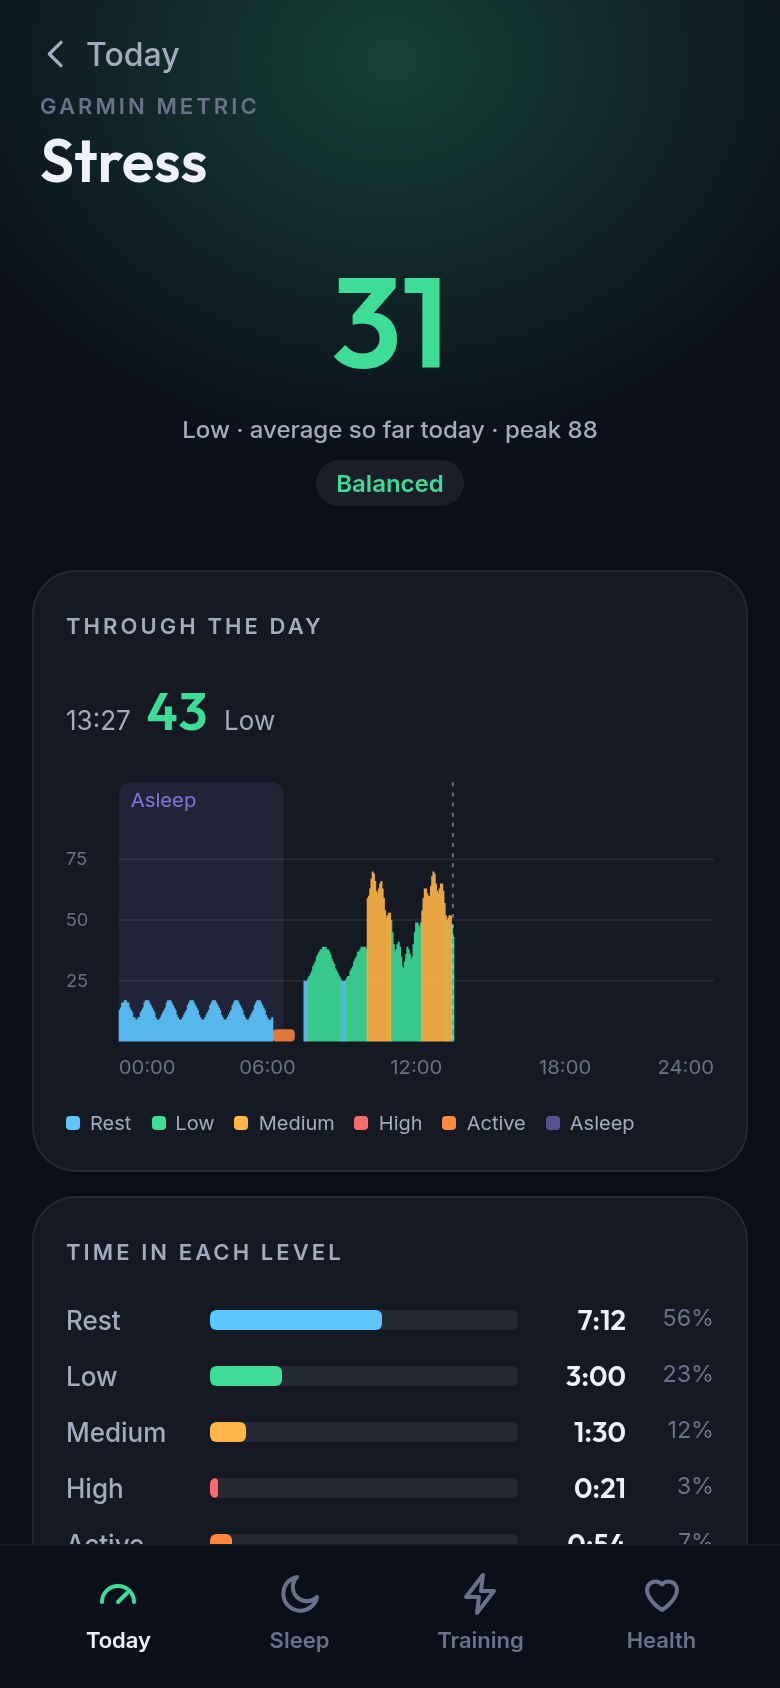
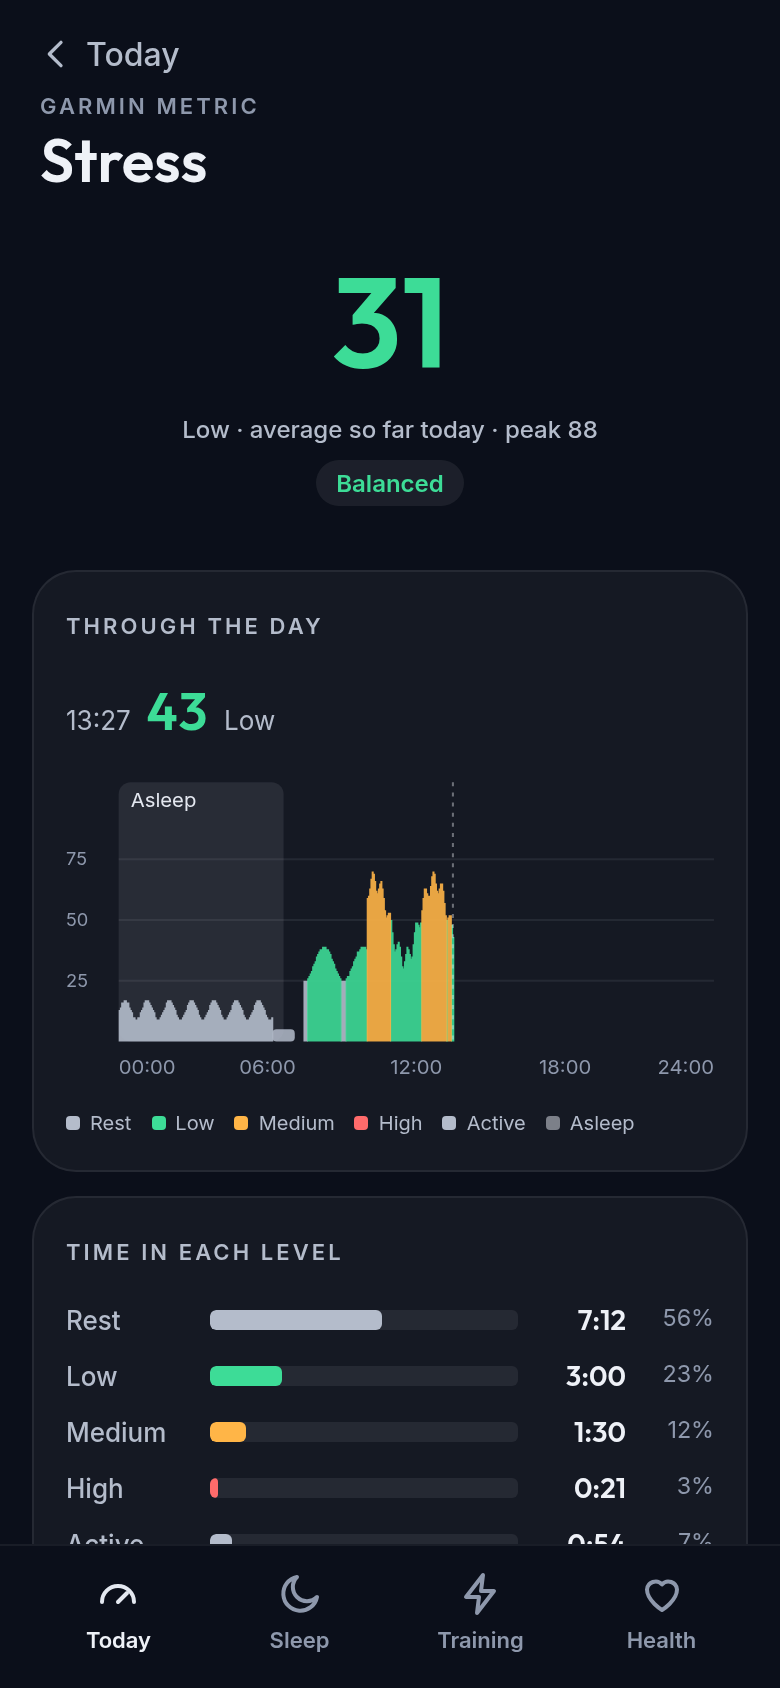
Verify Android theme and refresh published screenshots

diff --git a/app/src/lib/components/RangeBar.svelte b/app/src/lib/components/RangeBar.svelte
@@ -1,1 +1,1 @@
-<script lang="ts">import {position,colors} from '../charts';let {value,scale,range,color=colors.ink}:{value:number|null,scale:[number,number],range:[number,number]|null,color?:string}=$props();</script><div class="rb">{#if range}<u style:left={position(range[0],scale)+'%'} style:width={(position(range[1],scale)-position(range[0],scale))+'%'}></u>{/if}{#if value!=null}<i style:left={position(value,scale)+'%'} style:background={color}></i>{/if}</div><style>.rb{position:relative;height:8px;border-radius:4px;background:rgba(255,255,255,.06)}u{position:absolute;top:0;bottom:0;border-radius:4px;background:rgba(255,255,255,.13)}i{position:absolute;top:50%;width:12px;height:12px;border-radius:50%;transform:translate(-50%,-50%);box-shadow:0 0 0 3px #10141F}</style>
+<script lang="ts">import {position,colors} from '../charts';let {value,scale,range,color=colors.ink}:{value:number|null,scale:[number,number],range:[number,number]|null,color?:string}=$props();</script><div class="rb">{#if range}<u style:left={position(range[0],scale)+'%'} style:width={(position(range[1],scale)-position(range[0],scale))+'%'}></u>{/if}{#if value!=null}<i style:left={position(value,scale)+'%'} style:background={color}></i>{/if}</div><style>.rb{position:relative;width:100%;height:8px;border-radius:4px;background:rgba(255,255,255,.06)}u{position:absolute;top:0;bottom:0;border-radius:4px;background:rgba(255,255,255,.13)}i{position:absolute;top:50%;width:12px;height:12px;border-radius:50%;transform:translate(-50%,-50%);box-shadow:0 0 0 3px #10141F}</style>

diff --git a/README.md b/README.md
@@ -8,7 +8,7 @@ you're doing, why, and what to do today, from Garmin's own metrics.
 Status: first test build (Android). See [docs/spec.md](docs/spec.md) and the
 [mockup](design/mockup/) (sample data).
 
-![Raring mockup: Today, Sleep, Training, Workout and Health screens](design/mockup/screens.png)
+![Raring app with synthetic readings: Today, Sleep, Training, Workout and Health](site/assets/screens.png)
 
 ## Install
 
@@ -45,8 +45,9 @@ Local check: `nix develop -c bash -c 'cd app && npm run test:site'`.
 Preview: `nix develop -c python3 -m http.server 4174 --bind 0.0.0.0 --directory site`,
 then open `http://neptune:4174` from the tailnet.
 The app screenshots come from `cd app && npm run screenshots` inside the
-dev shell (`.data/screens/`). Copy only those synthetic images into `site/assets/`;
-never replace them with personal Garmin data.
+dev shell (`.data/screens/`). Run `cd app && node src/scripts/publish-screens.mjs`
+to publish the synthetic site images, README montage and social preview. Never
+replace them with personal Garmin data.
 Fonts and their licenses are copied from `app/src/assets/fonts/`.
 
 The site has no analytics, but GitHub processes ordinary hosting and download
